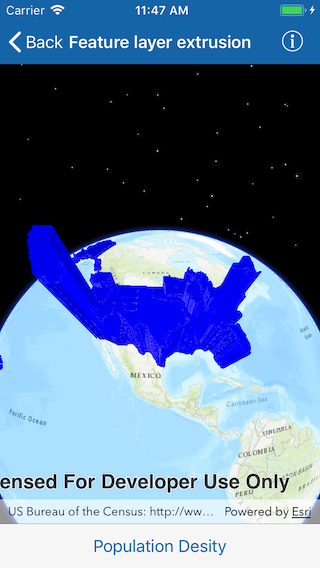
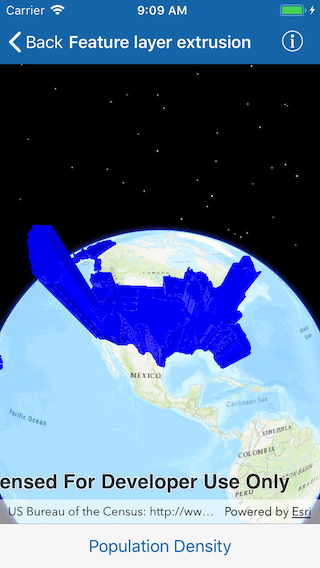
fix misspelling

Changed region(s): [[0.2812, 0.9278, 0.7188, 0.9877], [0.4062, 0.0, 0.5938, 0.0299]]

diff --git a/arcgis-ios-sdk-samples/Scenes/Feature layer extrusion/FeatureLayerExtrusionViewController.swift b/arcgis-ios-sdk-samples/Scenes/Feature layer extrusion/FeatureLayerExtrusionViewController.swift
@@ -72,7 +72,7 @@ class FeatureLayerExtrusionViewController: UIViewController {
         }
         else {
             renderer?.sceneProperties?.extrusionExpression = "[POP2007]/ 10"
-            extrusionButton.title = "Population Desity"
+            extrusionButton.title = "Population Density"
         }
         showPopulation = !showPopulation
     }
